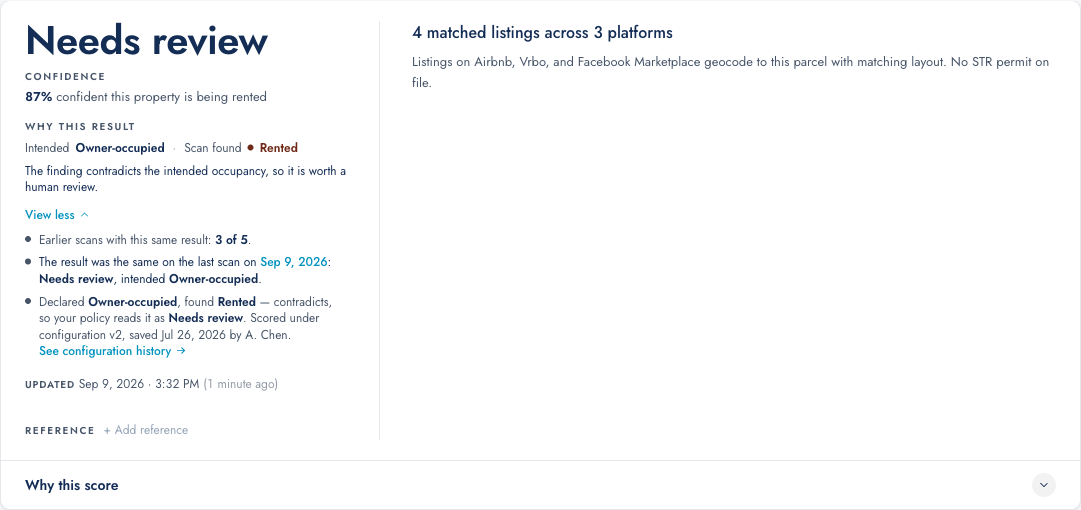
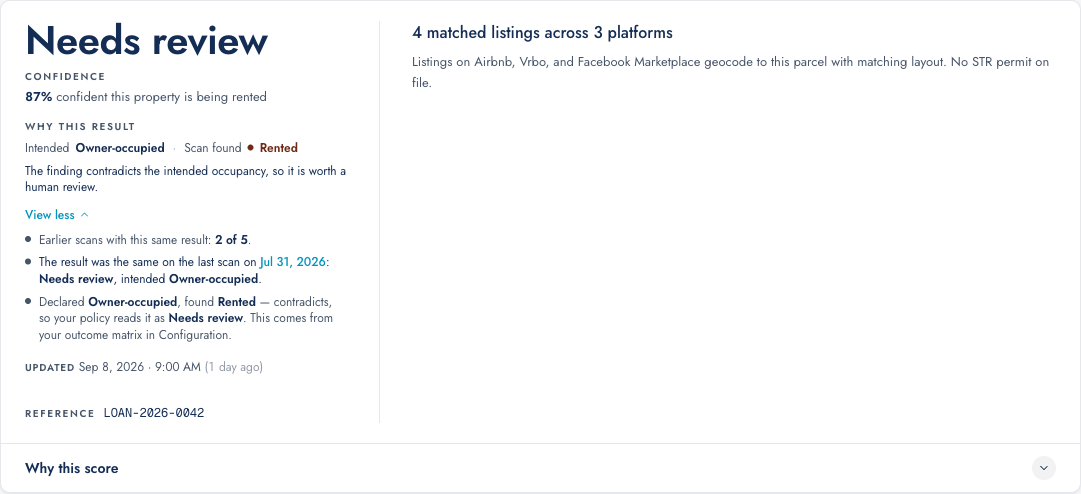
feat(cert): align the single-scan certificate to the shipped prod PDF
Owner handed over the prod artifact (scan-f6a7b65b, 2026-09-09) as the
reference: *"only the single scan pdf and use this one"*. Structural deltas
brought across, and the combined report picks them up automatically since its
page 1 is this same body.

- Header: scan ID leads in mono, then Scanned and Generated stamps either side
  of the scan kind. A user-supplied reference is additive — prod's sample had
  none, but the May-2026 lender spec still wants a loan number at a glance.
- Subject property prints property facts (type · beds · baths · area · year)
  instead of parcel / zoning / permit status. A lender reads the property, not
  the assessor's filing.
- "Thresholds at scan" prints under the reconciliation, off the pair stamped on
  the run, so a later threshold edit can never re-band a completed certificate.
- Footer removed. Prod has none: both timestamps and the scan ID moved into the
  header, which was all the footer carried. This also drops "Page 1 of 1",
  which was never true of the combined report.

The threshold line needed an axis conversion. The stamped pair is on the raw
rented-probability axis; the printed line is on the declare-confidence axis the
config screen asks in (#74). Needs review maps straight across, but Consistent
is confidence in the MATCHING finding, so it is 100 − notRentedAtOrBelow.
Printing the raw number read "declare Consistent at 30%" — the opposite of what
it means.
[…]

diff --git a/src/components/result/CertificateSheet.tsx b/src/components/result/CertificateSheet.tsx
@@ -1,9 +1,8 @@
 /* global React, ReactDOM, SCENARIOS, PROPERTY, PLATFORMS, useAppState,
    occMatchForRisk, INTENDED_OCCUPANCY_LABEL, DEFAULT_OCC_CONFIG, displayConfidence,
-   formatReportDate, formatUsDate, AI_BAND_NEXT_STEP, occSignalMeta, OCC_SIGNAL_TONE_VARS,
+   formatReportDate, AI_BAND_NEXT_STEP, occSignalMeta, OCC_SIGNAL_TONE_VARS,
    occRecordsSummary, occCombinedSynthesis, OCC_STRENGTH_DEF,
-   occStrengthCategory, OCC_SCAN_VERDICT_LABEL, occCorroborationLine,
-   occConfigVersion */
+   occStrengthCategory, OCC_SCAN_VERDICT_LABEL, occCorroborationLine */
 // CertificateSheet — Halcyon-branded single-page PDF report.
 //
 // Design spec: docs/pdf-certificate-spec.md. This component is the ONLY
@@ -243,6 +242,41 @@ function CertificateBody({
       : s.score
   );
 
+  // "Single Family" from the SINGLE_FAMILY enum, title-cased for print.
+  const certPropertyType = String(PROPERTY.propertyType || '')
+    .toLowerCase()
+    .split('_')
+    .filter(Boolean)
+    .map((w) => w.charAt(0).toUpperCase() + w.slice(1))
+    .join(' ');
+
+  // When this scan actually ran, distinct from when the PDF was generated.
+  // Both print in the header, as prod does.
+  const certScannedAt =
+    typeof sessionStorage !== 'undefined' ? sessionStorage.getItem('resultServedAt') : null;
+  const scannedStamp = certScannedAt ? certTimestamp(new Date(certScannedAt)) : timestamp;
+
+  // The confidence bands this run was scored under, stamped on the row when
+  // it ran. Absent for runs made before the stamp existed — print nothing
+  // then rather than implying today's bands applied.
+  //
+  // The stored pair is on the RAW rented-probability axis
+  // ({rentedAtOrAbove, notRentedAtOrBelow}); the printed line is on the
+  // declare-confidence axis the config screen asks in (#74). Needs review
+  // maps straight across, but Consistent is confidence in the MATCHING
+  // finding, so it is 100 − notRentedAtOrBelow. Printing the raw number read
+  // "declare Consistent at 30%", which is the opposite of what it means.
+  const certThresholds = (() => {
+    if (typeof sessionStorage === 'undefined') return null;
+    try {
+      const raw = sessionStorage.getItem('scanThresholds');
+      const t = raw ? JSON.parse(raw) : null;
+      return t && typeof t.rentedAtOrAbove === 'number' ? t : null;
+    } catch {
+      return null;
+    }
+  })();
+
   return (
     <article className="certificate-sheet">
       <header className="cert-head">
@@ -253,19 +287,21 @@ function CertificateBody({
             <div className="cert-product">TrueOccupancy Certificate</div>
           </div>
         </div>
+        {/* Header block matches the shipped prod certificate
+            (scan-f6a7b65b, 2026-09-09): the scan ID leads in mono, then the
+            scanned and generated stamps in UTC either side of the scan kind.
+            Both stamps live here now, which is why prod carries no footer —
+            see the note where ours used to be. A user-supplied reference is
+            additive: prod's sample had none, but the May-2026 lender spec
+            still wants a loan number findable at a glance. */}
         <div className="cert-head-right">
-          {/* Top-corner identifier — prefers the user-supplied reference
-              when set (lenders look for their loan number first), falls
-              back to the scan ID so the corner is never empty. Either way,
-              the internal scan ID is still printed in the footer for audit. */}
-          <div
-            className="cert-id"
-            aria-label={reference ? 'Reference' : 'Scan ID'}
-          >
-            {reference || scanId}
-          </div>
-          <div className="cert-stamp">{timestamp}</div>
+          <div className="cert-id" aria-label="Scan ID">{scanId}</div>
+          {reference && (
+            <div className="cert-stamp" aria-label="Reference">Reference {reference}</div>
+          )}
+          <div className="cert-stamp">Scanned {scannedStamp}</div>
           <div className="cert-kind">{kind === 'batch' ? 'Batch Scan' : 'Single-Property Scan'}</div>
+          <div className="cert-stamp muted">Generated {timestamp}</div>
         </div>
       </header>
 
@@ -274,8 +310,12 @@ function CertificateBody({
       <section className="cert-property">
         <div className="cert-eyebrow">Subject property</div>
         <div className="cert-address">{address || PROPERTY.address}</div>
+        {/* Property facts, as prod prints them — type, layout, size, year.
+            Parcel / zoning / permit status moved off: a lender reads the
+            property, not the assessor's filing. */}
         <div className="cert-meta">
-          Parcel {PROPERTY.parcel} · {PROPERTY.zoning} · {PROPERTY.permitStatus}
+          {certPropertyType} · {PROPERTY.bedrooms} bed · {PROPERTY.bathrooms} bath ·{' '}
+          {PROPERTY.area} · Built {PROPERTY.yearBuilt}
         </div>
       </section>
 
@@ -296,6 +336,19 @@ function CertificateBody({
               <span className="cert-recon-status" style={{ color: CERT_TONE_INK[match.tone] }}>
                 {match.label}
               </span>
+            </div>
+          )}
+          {/* Thresholds at scan. Prod prints this (shipped via hot fix) and
+              it reads off the pair stamped on the run, so a later threshold
+              edit can never re-band a completed certificate.
+              ⚠ Tension with TO-89, which took confidence thresholds out of
+              the product: they are gone from the UI but still print here,
+              because the shipped artifact does. Owner's call, recorded not
+              resolved. */}
+          {certThresholds && (
+            <div className="cert-thresholds">
+              Thresholds at scan: flag Needs review at {certThresholds.rentedAtOrAbove}%, declare
+              Consistent at {100 - certThresholds.notRentedAtOrBelow}%
             </div>
           )}
           {/* AI provenance, ink-only: print drops background fills, so this
@@ -363,23 +416,11 @@ function CertificateBody({
         )}
       </section>
 
-      <footer className="cert-foot">
-        <div className="cert-foot-left">
-          {/* Internal UUID is always present per spec, regardless of whether
-              the lender attached a user-facing Reference. Serves as audit /
-              cross-reference, not primary identification. */}
-          <div className="cert-foot-line">
-            Scan ID: <span className="mono">{scanId}</span>
-          </div>
-          <div className="cert-foot-line">
-            Verifiable at <span className="mono">halcyon.app/verify/{scanId}</span>
-          </div>
-          <div className="cert-foot-line muted">
-            Generated {timestamp} · Halcyon TrueOccupancy · halcyon.app
-          </div>
-        </div>
-        <div className="cert-foot-right">Page 1 of 1</div>
-      </footer>
+      {/* No footer. Prod carries none: the scan ID and both timestamps moved
+          into the header block above, which is where a reader looks for
+          identifiers, and repeating them at the foot of a one-page artifact
+          was the only thing the footer did. Dropping it also removes the
+          "Page 1 of 1" line, which was never true of the combined report. */}
     </article>
   );
 }
@@ -408,15 +449,12 @@ function CertificateHistoryBody({
   scanId,
   timestamp,
   rows,
-  configEras,
 }: {
   address: string;
   reference?: string;
   scanId: string;
   timestamp: string;
   rows: CertificateHistoryRow[];
-  /** Set only when these rows span two config versions — see the caption. */
-  configEras?: { now: any; then: any } | null;
 }) {
   return (
     <article className="certificate-sheet">
@@ -455,19 +493,10 @@ function CertificateHistoryBody({
           </span>
         </div>
 
-        {/* Two eras of verdicts in one document. Said once, dated, before the
-            rows — otherwise a reader compares a Needs review against an
-            Inconclusive and reads the product as contradicting itself. Same
-            seam the on-screen Run history carries. */}
-        {configEras && (
-          <div className="cert-empty" style={{ fontStyle: 'normal' }}>
-            Configuration changed{' '}
-            {formatUsDate(new Date(configEras.now.savedAt).toISOString())}: v
-            {configEras.then.version} → v{configEras.now.version}. {configEras.now.note} Every
-            scan keeps the policy it ran under.
-          </div>
-        )}
-
+        {/* No config-era seam here. Provenance is a screen affordance only
+            (owner, 2026-09-09): the single-scan PDF already ships it in prod
+            via hot fix, and nothing else in print carries it. The on-screen
+            Run history keeps the seam. */}
         {rows.length === 0 ? (
           <div className="cert-empty">No prior scans recorded for this property.</div>
         ) : (
@@ -1377,26 +1406,7 @@ function CertificateSheet({ scenario, address, kind, reference }: CertificateShe
   // Config provenance is NOT printed on the single-scan certificate: prod
   // already ships it via hot fix (owner, 2026-09-09), so the prototype would
   // be specifying a second version of something that exists. It stays on the
-  // property page, and the scan-history report keeps its era seam — that
-  // document spans two policies by construction and would otherwise read as
-  // contradicting itself.
-  const certConfigEras = React.useMemo(() => {
-    if (variant !== 'history' || typeof occConfigVersion !== 'function') return null;
-    const versions = (getHistoryForAddress(resolvedAddress) as any[]).reduce(
-      (acc: number[], h: any) => {
-        if (typeof h.configVersion === 'number' && !acc.includes(h.configVersion)) {
-          acc.push(h.configVersion);
-        }
-        return acc;
-      },
-      []
-    );
-    if (versions.length < 2) return null;
-    // Rows are newest-first, so [0] is the version in force now.
-    const now = occConfigVersion(versions[0]);
-    const then = occConfigVersion(versions[versions.length - 1]);
-    return now && then ? { now, then } : null;
-  }, [variant, resolvedAddress, getHistoryForAddress]);
+  // property page and in the on-screen Run history — nowhere in print.
 
   // Snapshot payload — listings + capture date come through sessionStorage,
   // written by SavedSnapshotDrawer immediately before the variant flip.
@@ -1446,7 +1456,6 @@ function CertificateSheet({ scenario, address, kind, reference }: CertificateShe
           scanId={scanId}
           timestamp={timestamp}
           rows={historyRows}
-          configEras={certConfigEras}
         />
       ) : variant === 'snapshot' ? (
         <CertificateSnapshotBody

diff --git a/src/components/result/ConfidenceHero.tsx b/src/components/result/ConfidenceHero.tsx
@@ -469,7 +469,7 @@ function ConfidenceHero({ scenario, defaultOpen = true }: ConfidenceHeroProps) {
     match && typeof occProvenance === 'function'
       ? occProvenance(intent as any, match.verdict, runConfigVersion)
       : null;
-  const hasProvenance = Boolean(provenance && provenance.versionLabel);
+  const hasProvenance = Boolean(provenance);
 
   // The single most recent EARLIER run regardless of its result — the "last
   // scan" line always states it (result + the intent it reconciled against),
@@ -726,12 +726,13 @@ function ConfidenceHero({ scenario, defaultOpen = true }: ConfidenceHeroProps) {
                           </span>
                         </li>
                       )}
-                      {/* • 3 — what policy scored this run. Last, and inside
-                          a reveal that is closed by default: it is provenance,
-                          not a finding, and must not compete with the verdict
-                          above it. Reads the decision in the order it was
-                          made, then names the configuration version. */}
-                      {provenance && provenance.versionLabel && (
+                      {/* • 3 — the policy this result follows from. Last, and
+                          inside a reveal closed by default: it explains the
+                          verdict, it is not the verdict. No actor, no version
+                          number and no link out (owner call, 2026-09-09) —
+                          the reader needs to know the result follows from a
+                          setting they control, not who last touched it. */}
+                      {provenance && (
                         <li className="flex items-start gap-2">
                           <span className="mt-[5px] w-1.5 h-1.5 rounded-full shrink-0" style={{ background: 'var(--ink-3)' }} aria-hidden />
                           <span className="text-ink-3">
@@ -741,29 +742,7 @@ function ConfidenceHero({ scenario, defaultOpen = true }: ConfidenceHeroProps) {
                             <span className="font-semibold text-ink-2">{provenance.verdictLabel}</span>
                             {' — '}{provenance.verb}, so your policy reads it as{' '}
                             <span className="font-semibold text-ink-2">{provenance.statusLabel}</span>.
-                            {' '}Scored under {provenance.versionLabel}.{' '}
-                            {/* The return path: lands the audit log on the day
-                                this policy was saved, rather than on today,
-                                which is a different day's changes. */}
-                            <button
-                              type="button"
-                              onClick={() => {
-                                if (provenance.version && typeof sessionStorage !== 'undefined') {
-                                  sessionStorage.setItem(
-                                    'configAuditDate',
-                                    new Date(provenance.version.savedAt).toISOString().slice(0, 10)
-                                  );
-                                }
-                                history.push('/settings/scan');
-                              }}
-                              className="inline-flex items-center gap-1 rounded border-0 bg-transparent p-0 cursor-pointer font-sans text-caption font-medium hover:underline focus:outline-none focus-visible:ring-2 focus-visible:ring-brand focus-visible:ring-offset-1"
-                              style={{ color: 'var(--brand-link)' }}
-                            >
-                              See configuration history
-                              <span className="inline-flex [&>svg]:w-3 [&>svg]:h-3" aria-hidden>
-                                <Icon name="arrow-right" size={12} />
-                              </span>
-                            </button>
+                            {' '}This comes from your outcome matrix in Configuration.
                           </span>
                         </li>
                       )}

diff --git a/src/pages/ScanConfigScreen.tsx b/src/pages/ScanConfigScreen.tsx
@@ -1,7 +1,7 @@
 /* global React, ReactRouterDOM, AppShell, AppStateContext, Card, ChipRow, Input, Toggle, Button, Pill, Modal,
    Tabs, Drawer, ScreenEmpty, Icon, OCC_INTENTS, OCC_STATUSES, OCC_INTENT_LABEL,
    OCC_STATUS_LABEL, OCC_STATUS_TONE, OCC_CADENCE_LABEL,
-   OCC_CONCLUSIVITIES, OCC_CONCLUSIVITY_LABEL, occMatchIsRented, occConfigVersion,
+   OCC_CONCLUSIVITIES, OCC_CONCLUSIVITY_LABEL, occMatchIsRented,
    DEFAULT_OCC_CONFIG, formatUsDate */
 
 // Threshold change audit log (prototype seed). Every save appends a dated
@@ -467,45 +467,7 @@ function ScanConfigScreen({
   const [auditOpen, setAuditOpen] = React.useState(false);
   const [auditDate, setAuditDate] = React.useState(AUDIT_TODAY);
   const [appliedDate, setAppliedDate] = React.useState(AUDIT_TODAY);
-  // Arriving from a result's provenance line: open the log on the day that
-  // run's policy was saved, not on today. Single-shot — the key is cleared so
-  // a later visit to this screen opens normally.
-  React.useEffect(() => {
-    if (typeof sessionStorage === 'undefined') return;
-    const requested = sessionStorage.getItem('configAuditDate');
-    if (!requested) return;
-    sessionStorage.removeItem('configAuditDate');
-    setAuditDate(requested);
-    setAppliedDate(requested);
-    setAuditOpen(true);
-  }, []);
-
-  // The log the provenance line links into. Threshold rows are seeded history;
-  // the outcome-matrix row is DERIVED from the config-version registry, so the
-  // date here can never drift from the date a result cites as the policy it
-  // was scored under. Without it the link lands on a day holding nothing about
-  // the thing the reader followed it to see.
-  const auditEvents = React.useMemo(() => {
-    const v2 = typeof occConfigVersion === 'function' ? occConfigVersion(2) : null;
-    const matrixRow = v2
-      ? [
-          {
-            at: new Date(v2.savedAt).toISOString().slice(0, 16),
-            actor: v2.actor,
-            changes: [
-              {
-                label: 'Outcome matrix · Owner-occupied, Second home',
-                from: 'A contradicting finding → Inconclusive',
-                to: 'A contradicting finding → Needs review',
-              },
-            ],
-          },
-        ]
-      : [];
-    return [...matrixRow, ...THRESHOLD_AUDIT].sort((a: any, b: any) => (a.at < b.at ? 1 : -1));
-  }, []);
-
-  const auditForDate = auditEvents
+  const auditForDate = THRESHOLD_AUDIT
     .filter((e) => e.at.slice(0, 10) === appliedDate)
     .sort((a, b) => (a.at < b.at ? 1 : -1));
   const [matrix, setMatrix] = React.useState(seed.outcomeMatrix);
@@ -823,14 +785,13 @@ function ScanConfigScreen({
       <Drawer
         open={auditOpen}
         onClose={() => setAuditOpen(false)}
-        title="Configuration change log"
+        title="Threshold change log"
         width={440}
       >
         <div className="flex flex-col gap-stack-md">
           <p className="font-sans text-caption m-0" style={{ color: 'var(--ink-3)' }}>
-            Configuration changes over time, so the same finding can read differently by date. Pick
-            a date to see the changes made that day. Every completed run keeps the policy it ran
-            under.
+            Thresholds change over time, so the same score can read differently by date. Pick a date
+            to see the changes made that day.
           </p>
 
           {/* Date picker (single date, defaults to today) + Apply. */}

diff --git a/src/styles/print.css b/src/styles/print.css
@@ -96,6 +96,20 @@
   color: var(--ink-3);
   margin-top: 1pt;
 }
+/* The generated stamp sits under the scan kind and reads quieter than the
+   scanned stamp above it — one is when the finding was made, the other only
+   when this copy was printed. */
+.certificate-sheet .cert-stamp.muted { color: var(--ink-4); }
+
+/* Thresholds at scan — the bands this run was scored under, printed under
+   the reconciliation line. Hairline, like the AI note it sits beside: it
+   qualifies the finding, it is not part of it. */
+.certificate-sheet .cert-thresholds {
+  margin-top: 5pt;
+  font-size: 8pt;
+  line-height: 1.35;
+  color: var(--ink-3);
+}
 
 .certificate-sheet .cert-rule {
   height: 1pt;
